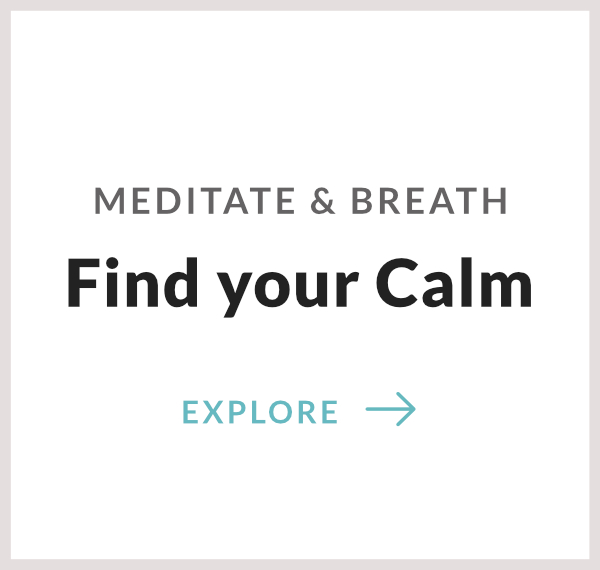
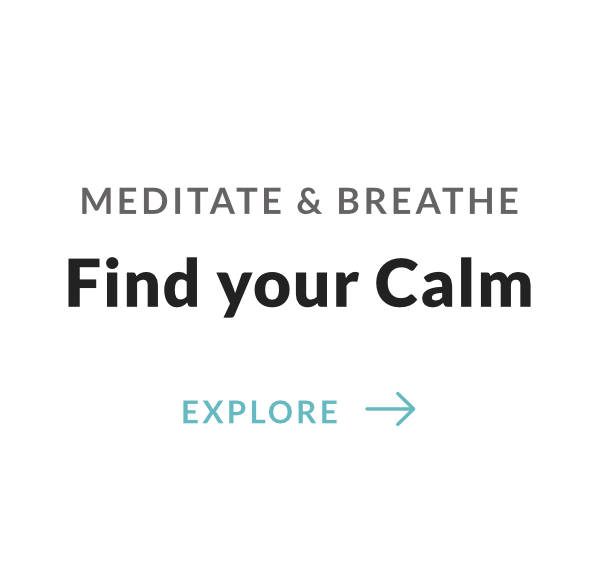
finetuning colours and 3 boxes

diff --git a/_sass/minimal-mistakes/_page.scss b/_sass/minimal-mistakes/_page.scss
@@ -66,6 +66,9 @@
 }
 
 .page__title_header {
+  font-family: 'Crimson Text', serif;
+  font-weight: normal;
+  color: #112d2f;
   margin-top: 40px;
   line-height: 1;
   text-align: center;
@@ -94,6 +97,7 @@
   text-align: center;
   font-family: 'Lato', sans-serif;
   font-weight: normal;
+  color: #384a4c;
 
   & + .page__meta {
     margin-top: -0.5em;
@@ -212,7 +216,6 @@
     }
 
     .page__title,
-    .page__title_header,
     .page__title_breathe,
     .page__meta,
     .page__lead,

diff --git a/_sass/minimal-mistakes/_archive.scss b/_sass/minimal-mistakes/_archive.scss
@@ -25,11 +25,11 @@
 }
 /*
 To add hover shadow
-
+*/ 
 .archive__item:hover {
-  box-shadow: 0 0 11px rgba(33,33,33,.2); 
+  box-shadow: 0 0 15px #a3dbde; 
 }
-*/
+
 .archive__item-button {
   text-decoration: none;
 }
